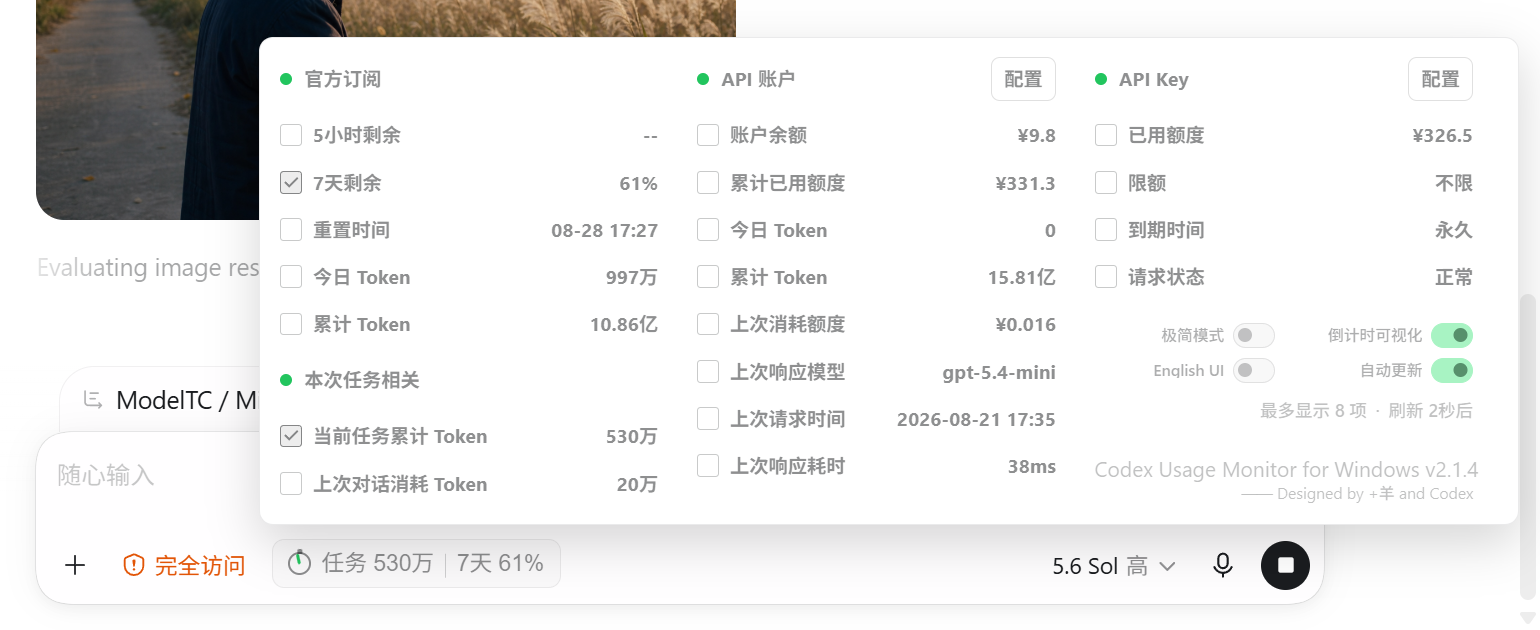
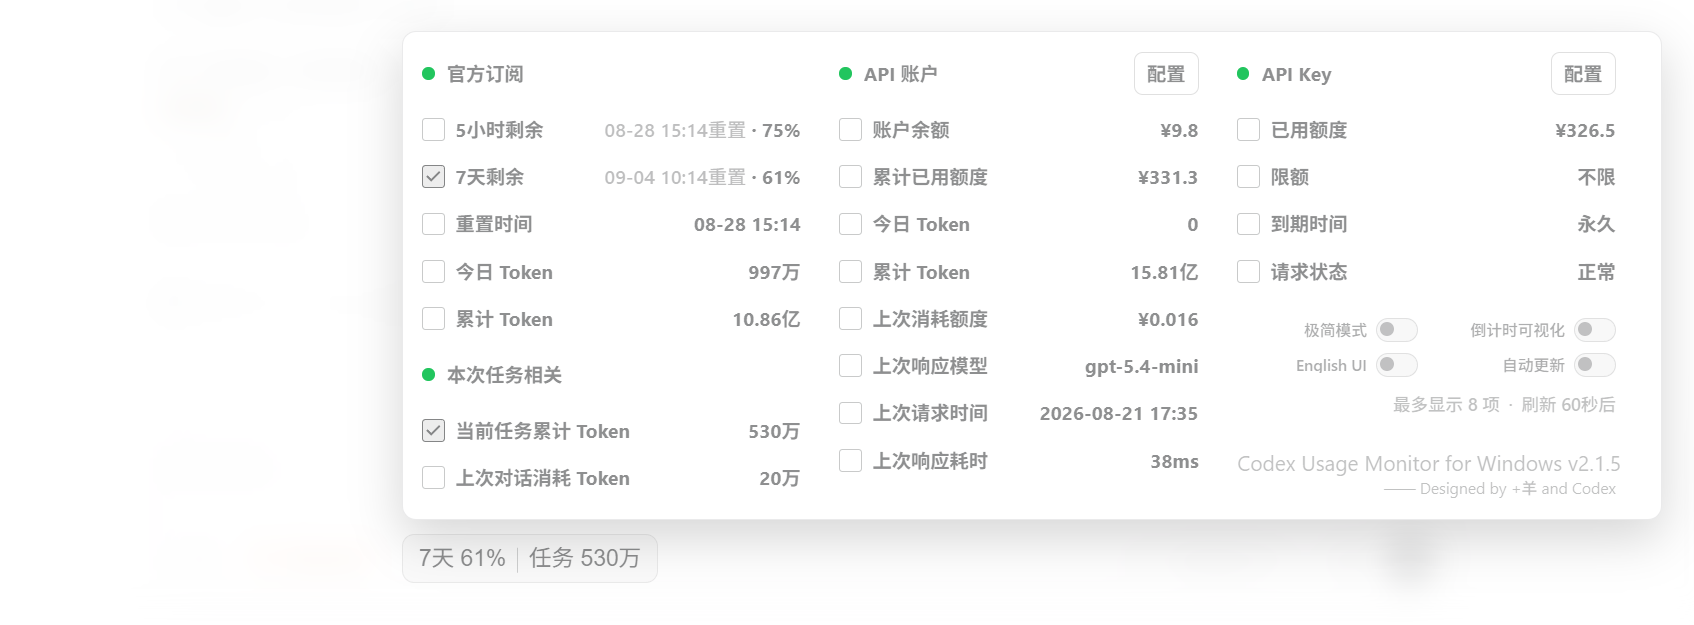
Release 2.1.5

diff --git a/assets/usage-constants.js b/assets/usage-constants.js
@@ -1,7 +1,7 @@
 (() => {
   const registry = window.__CODEX_USAGE_MONITOR_MODULES__ ||= {};
   registry.constants = Object.freeze({
-    VERSION: "2.1.4",
+    VERSION: "2.1.5",
     STATE_KEY: "__CODEX_USAGE_MONITOR_STATE__",
     USAGE_KEY: "__CODEX_USAGE_MONITOR__",
     HOST_ID: "codex-usage-monitor",

diff --git a/README.md b/README.md
@@ -9,9 +9,9 @@
 
 > 本项目是非官方项目，与 OpenAI 没有隶属、赞助或背书关系。Codex 更新可能改变页面结构；项目会持续通过兼容性测试适配新版界面。
 
-**v2.1.4 更新：**修复打开快速聊天或右侧栏“侧边聊天”后，当前任务相关数据失效的问题。监视器现在会跟随主 Composer 识别当前任务，并排除侧边任务、`chatgpt:` 会话和辅助预热页面。
+**v2.1.5 更新：**展开面板中的“5小时剩余”和“7天剩余”现在会同时显示各自的重置时间与剩余百分数；折叠后的普通及极简监视栏仍只显示百分数，避免占用输入区宽度。本版本还合并了 Microsoft Store Codex 在 PowerShell 7 下的安装发现修复。
 
-![Codex Usage Monitor v2.1.4 展开面板](docs/images/monitor-expanded.png)
+![Codex Usage Monitor v2.1.5 展开面板](docs/images/monitor-expanded.png)
 
 - 同一面板支持官方订阅、API 账户和 API Key 三种数据源。
 - 自动适配新版与旧版 Codex Composer 布局。
@@ -58,17 +58,17 @@
 
 全新设置默认只显示“7天剩余”和“当前任务累计 Token”。普通模式最多选择 8 项。
 
-![Codex Usage Monitor v2.1.4 普通模式](docs/images/monitor-collapsed.png)
+![Codex Usage Monitor v2.1.5 普通模式](docs/images/monitor-collapsed.png)
 
 ### 极简模式
 
 极简模式隐藏指标名称，仅保留数值与单位，最多选择 14 项；选中 9 项及以上时自动使用双行压缩布局。
 
-![Codex Usage Monitor v2.1.4 极简模式](docs/images/monitor-minimal.png)
+![Codex Usage Monitor v2.1.5 极简模式](docs/images/monitor-minimal.png)
 
 ### 展开面板
 
-点击监视栏可展开三栏面板。每项前的复选框决定是否显示在折叠栏中；“官方订阅”下方的“本次任务相关”分区显示当前任务累计 Token 和上次对话消耗 Token。
+点击监视栏可展开三栏面板。“5小时剩余”和“7天剩余”在这里按“重置时间 · 剩余百分数”显示；每项前的复选框只决定折叠栏显示哪些指标，折叠栏中的这两项仍只显示百分数。“官方订阅”下方的“本次任务相关”分区显示当前任务累计 Token 和上次对话消耗 Token。
 
 API 账户和 API Key 标题后各有一个“配置”按钮。API Key 已有连接配置时只需填写或更换 Key，复杂连接字段默认折叠。
 

diff --git a/CHANGELOG.md b/CHANGELOG.md
@@ -2,7 +2,10 @@
 
 ## Unreleased
 
+## 2.1.5 - 2026-08-28
+
 - 在展开面板的“5小时剩余”和“7天剩余”中分别显示“重置时间 · 剩余百分数”；普通及极简监视栏继续只显示剩余百分数。
+- 合并 Microsoft Store Codex 在 PowerShell 7 下的安装发现修复，并更新应用内版本、安装包元数据、README 和展开面板截图。
 
 ## 2.1.4 - 2026-08-21
 
